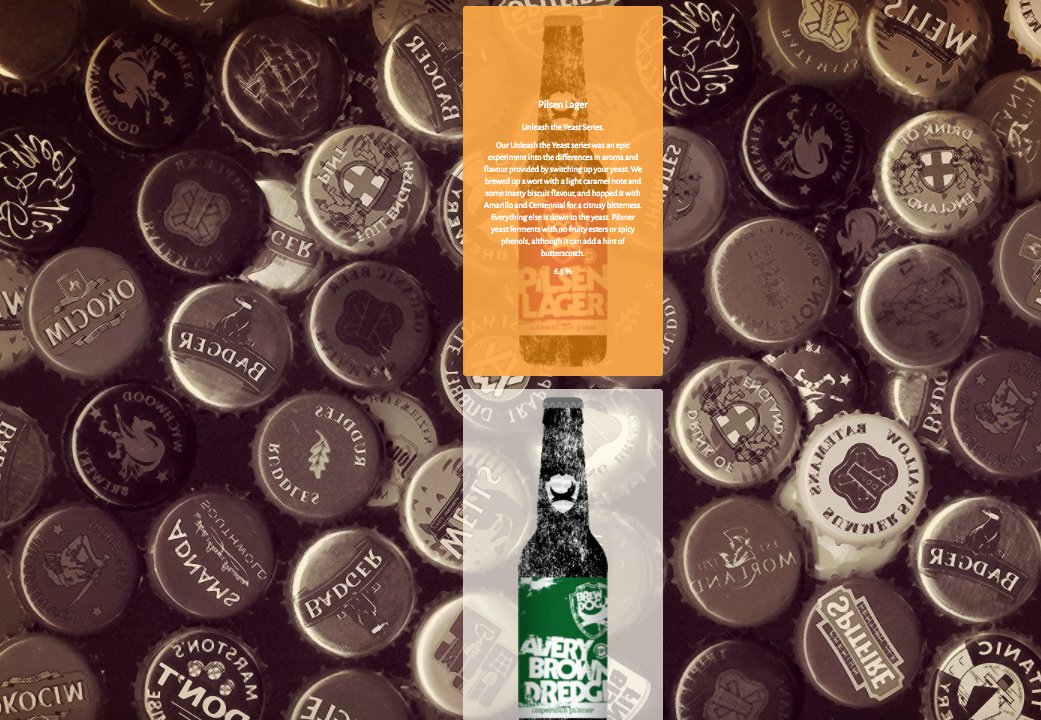
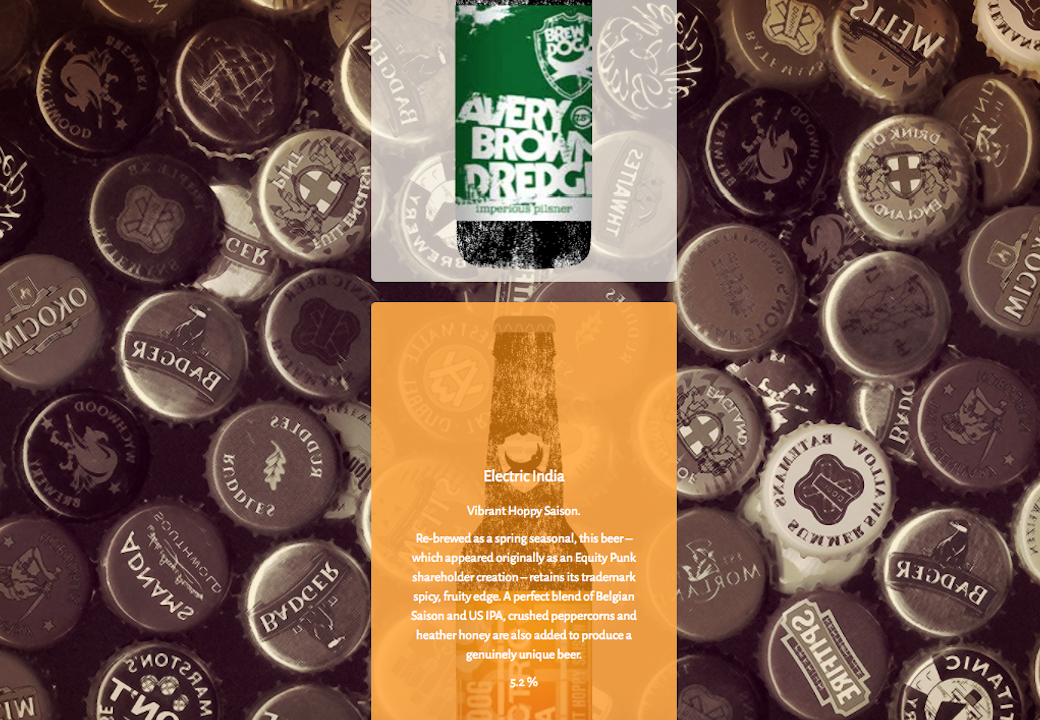
better images and no menu

diff --git a/_includes/navigation.html b/_includes/navigation.html
@@ -1,9 +1,9 @@
-<a id="menu-toggle" href="#" class="btn btn-dark btn-lg toggle"><i class="fa fa-bars"></i></a>
+<!-- <a id="menu-toggle" href="#" class="btn btn-dark btn-lg toggle"><i class="fa fa-bars"></i></a>
 <nav id="sidebar-wrapper">
   <ul class="sidebar-nav">
     <a id="menu-close" href="#" class="btn btn-light btn-lg pull-right toggle"><i class="fa fa-times"></i></a>
     <li class="sidebar-brand">
-      <a href="#top"  onclick = $("#menu-close").click(); >Start Bootstrap</a>
+      <a href="#top"  onclick = $("#menu-close").click(); >Menu</a>
     </li>
     <li>
       <a href="#top" onclick = $("#menu-close").click(); >Home</a>
@@ -21,4 +21,4 @@
       <a href="#contact" onclick = $("#menu-close").click(); >Contact</a>
     </li>
   </ul>
-</nav>
+</nav> -->
